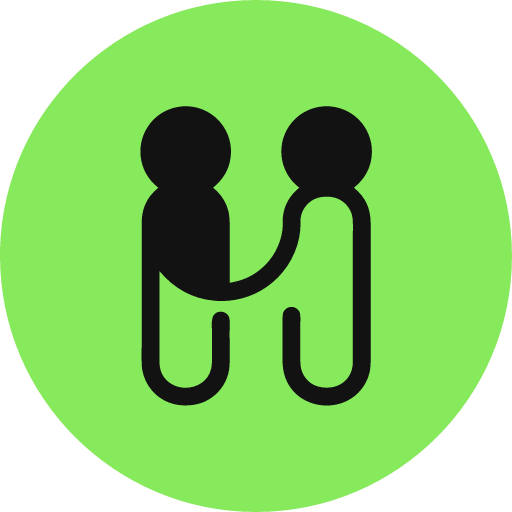
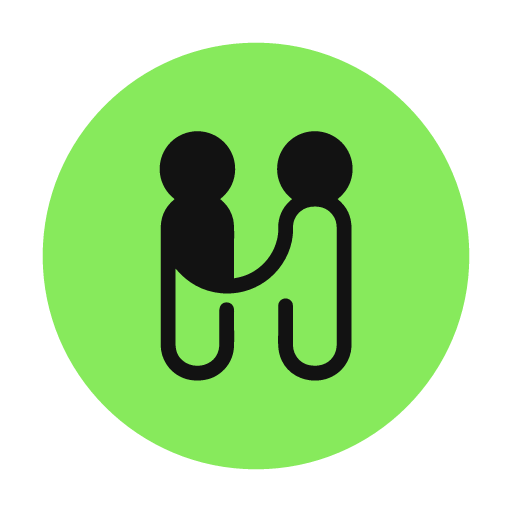
Ring the ehllo badge so it holds an edge on a green card
The mark is a green circle and ehllo's default card colour is also green, so on a
default card the circle vanished into the background and left the two figures
floating with no edge - it stopped reading as a badge at all.

A plain white plate was the obvious fix and the wrong one: it solves the green card
by removing the brand green from every other card, and on coral or indigo it reads
like a generic app icon. The ring keeps the green and gives it a border that
separates it from any colour behind it. One asset for every card, rather than a mark
that changes depending on the colour someone picked.

Both wallets rasterise from the same lib/ehllo-mark-svg.ts, so they cannot drift:
Apple renders logo/icon at 29, 50, 58 and 100 through sharp, and
public/ehllo-mark-round.png is that same markup pre-rendered for Google, which
fetches logos over the network rather than taking bytes.

It costs a little mark size at the same footprint, since the ring eats the edge. At
29x29 - Apple's smallest asset, the one on the lock screen - the ring is about two
pixels, which is why it is 6 units on a 72 viewBox rather than thinner.

Activity log: the badge change is recorded, and the pass spec link is now attached to
the three wallet entries rather than only the first.

Verified: web tsc 0, web lint 0, mobile tsc 0, mobile lint 0, 378/378 tests, secret
check clean across 945 files. Server-side only - passes are built on the server, so
no OTA is involved.

diff --git a/lib/ehllo-mark-svg.ts b/lib/ehllo-mark-svg.ts
@@ -1,15 +1,19 @@
 /**
- * The ehllo mark as inline SVG.
+ * The ehllo mark as inline SVG: the green badge inside a white ring.
  *
- * Inlined for the same reason lib/ehllo-logo-base64.ts exists: files under public/
- * are served by the CDN and are NOT on the serverless filesystem, so
+ * The ring exists because the mark is a green circle and the default card colour is
+ * also green - on a default card the circle vanished into the background and left
+ * the two figures floating with no edge. A white plate would have fixed that by
+ * removing the brand green entirely; the ring keeps the green and gives it a border
+ * that separates it from any colour behind it.
+ *
+ * Inlined for the same reason lib/ehllo-logo-base64.ts is: files under public/ are
+ * CDN-served and absent from the serverless filesystem, so
  * readFile(join(process.cwd(), "public", ...)) always fails in production and
- * silently falls through to whatever the fallback is. That is how the wallet pass
- * ended up shipping the square raster mark even after being pointed at the SVG -
- * the read failed, the fallback ran, and nothing said so.
+ * silently falls through to whatever the fallback is. That is how the pass shipped
+ * the square raster mark once already.
  *
- * The SVG is the only source that still carries the circle: the mark is drawn as
- * `<rect width="60" height="60" rx="30">`, and on a 60x60 box rx=30 is a circle.
- * Rasterising this keeps the round badge and the transparent corners.
+ * public/ehllo-mark-round.png is this same markup pre-rendered, for Google Wallet -
+ * which fetches logos over the network rather than taking bytes.
  */
-export const EHLLO_MARK_SVG = "<svg width=\"60\" height=\"60\" viewBox=\"0 0 60 60\" fill=\"none\" xmlns=\"http://www.w3.org/2000/svg\">\n<rect width=\"60\" height=\"60\" rx=\"30\" fill=\"#87EA5C\"/>\n<path d=\"M21.2464 12.4745C21.5069 12.4387 22.0865 12.4547 22.3494 12.482C23.7392 12.6335 25.0124 13.3297 25.8898 14.418C26.7906 15.5316 27.2033 16.9618 27.0345 18.384C26.8661 19.8753 26.1235 21.0684 24.9666 21.9949C25.1427 22.1389 25.2928 22.2692 25.4547 22.43C26.1055 23.0763 26.5636 23.8909 26.7778 24.7827C26.9883 25.6622 26.9171 27.4581 26.9163 28.4234L26.9165 33.1396C28.3581 32.8852 29.4341 32.4671 30.5889 31.5087C31.9616 30.3692 32.8778 28.6966 33.0993 26.9252C33.1579 26.4571 33.0887 25.9271 33.1433 25.4477C33.3103 23.9847 33.9558 22.9127 35.0702 21.9956C34.7512 21.7524 34.4602 21.4749 34.2019 21.168C33.2896 20.0803 32.8529 18.6717 32.9898 17.2588C33.1194 15.8497 33.8086 14.5513 34.9027 13.6541C36.0016 12.7518 37.4171 12.3285 38.8311 12.4791C40.2271 12.6244 41.5087 13.3174 42.3949 14.4061C43.2851 15.4995 43.7036 16.9023 43.5573 18.3047C43.3986 19.8412 42.6675 21.0383 41.4805 21.9953C42.8654 23.1509 43.4347 24.4148 43.4396 26.2128L43.4383 37.9149L43.4399 41.1086C43.4402 41.8011 43.4723 42.8056 43.344 43.4601C43.1537 44.4413 42.6735 45.3429 41.9658 46.0484C39.5421 48.4625 35.1236 47.8468 33.6271 44.7171C32.9649 43.3327 33.1182 42.0499 33.1194 40.5654L33.1188 37.172C33.1197 36.8085 33.1543 36.5241 33.4368 36.2574C33.6471 36.0574 33.93 35.9521 34.2201 35.966C34.6286 35.9879 35.0547 36.3087 35.1506 36.6959C35.2389 37.0543 35.1952 37.6415 35.1943 38.033L35.1949 40.9019C35.194 41.5271 35.1521 42.6378 35.2884 43.2052C35.408 43.7008 35.6556 44.1563 36.0065 44.5262C36.6004 45.1495 37.3009 45.3881 38.1443 45.4248C39.9549 45.5037 41.3194 44.285 41.3494 42.4463L41.35 30.8314L41.3503 27.4699C41.3503 26.9342 41.3786 26.0249 41.3115 25.5294C41.242 25.0159 41.0298 24.532 40.6993 24.1329C40.215 23.5293 39.5075 23.1469 38.7373 23.0724C37.8034 22.9881 36.9722 23.1205 36.2377 23.7361C35.6229 24.251 35.2502 24.9985 35.2089 25.7994C35.1849 26.2089 35.2244 26.6107 35.181 27.035C34.9367 29.4115 33.7288 31.601 31.9097 33.1238C30.0219 34.7027 27.5831 35.4647 25.1323 35.2417C22.4984 35.0083 20.3626 33.7762 18.6855 31.7679L18.6846 42.2493C18.6917 43.1937 18.8737 43.9333 19.5657 44.5951C21.1865 46.1452 24.2262 45.5022 24.748 43.2052C24.8886 42.5862 24.8402 41.8433 24.8396 41.2142L24.8342 38.652C24.8319 38.076 24.7223 37.2066 25.1699 36.7842C25.5738 36.403 26.2691 36.4373 26.6436 36.8549C26.9544 37.1747 26.9335 37.6658 26.9173 38.1037C26.86 39.6513 27.0013 41.3605 26.8992 42.8933C26.8075 44.2058 26.1948 45.4272 25.1975 46.2854C24.0498 47.2823 22.6947 47.6055 21.2028 47.489C19.8717 47.3858 18.6376 46.7528 17.7771 45.7319C17.1984 45.0433 16.8152 44.2121 16.6675 43.3248C16.558 42.662 16.5995 41.1854 16.5996 40.4507L16.5997 35.4204L16.5997 28.9237C16.5996 28.1569 16.6206 27.3313 16.5977 26.569C16.5398 24.645 17.0407 23.2522 18.5561 21.9946C18.5261 21.9726 18.4966 21.9501 18.4675 21.927C17.368 21.0583 16.6567 19.7901 16.4888 18.399C16.3165 16.9769 16.7253 15.5454 17.6226 14.4288C18.5339 13.2928 19.8064 12.6302 21.2464 12.4745Z\" fill=\"#121212\"/>\n</svg>";
+export const EHLLO_MARK_SVG = "<svg width=\"72\" height=\"72\" viewBox=\"0 0 72 72\" fill=\"none\" xmlns=\"http://www.w3.org/2000/svg\"><rect width=\"72\" height=\"72\" rx=\"36\" fill=\"#FFFFFF\"/><g transform=\"translate(6,6)\"><rect width=\"60\" height=\"60\" rx=\"30\" fill=\"#87EA5C\"/>\n<path d=\"M21.2464 12.4745C21.5069 12.4387 22.0865 12.4547 22.3494 12.482C23.7392 12.6335 25.0124 13.3297 25.8898 14.418C26.7906 15.5316 27.2033 16.9618 27.0345 18.384C26.8661 19.8753 26.1235 21.0684 24.9666 21.9949C25.1427 22.1389 25.2928 22.2692 25.4547 22.43C26.1055 23.0763 26.5636 23.8909 26.7778 24.7827C26.9883 25.6622 26.9171 27.4581 26.9163 28.4234L26.9165 33.1396C28.3581 32.8852 29.4341 32.4671 30.5889 31.5087C31.9616 30.3692 32.8778 28.6966 33.0993 26.9252C33.1579 26.4571 33.0887 25.9271 33.1433 25.4477C33.3103 23.9847 33.9558 22.9127 35.0702 21.9956C34.7512 21.7524 34.4602 21.4749 34.2019 21.168C33.2896 20.0803 32.8529 18.6717 32.9898 17.2588C33.1194 15.8497 33.8086 14.5513 34.9027 13.6541C36.0016 12.7518 37.4171 12.3285 38.8311 12.4791C40.2271 12.6244 41.5087 13.3174 42.3949 14.4061C43.2851 15.4995 43.7036 16.9023 43.5573 18.3047C43.3986 19.8412 42.6675 21.0383 41.4805 21.9953C42.8654 23.1509 43.4347 24.4148 43.4396 26.2128L43.4383 37.9149L43.4399 41.1086C43.4402 41.8011 43.4723 42.8056 43.344 43.4601C43.1537 44.4413 42.6735 45.3429 41.9658 46.0484C39.5421 48.4625 35.1236 47.8468 33.6271 44.7171C32.9649 43.3327 33.1182 42.0499 33.1194 40.5654L33.1188 37.172C33.1197 36.8085 33.1543 36.5241 33.4368 36.2574C33.6471 36.0574 33.93 35.9521 34.2201 35.966C34.6286 35.9879 35.0547 36.3087 35.1506 36.6959C35.2389 37.0543 35.1952 37.6415 35.1943 38.033L35.1949 40.9019C35.194 41.5271 35.1521 42.6378 35.2884 43.2052C35.408 43.7008 35.6556 44.1563 36.0065 44.5262C36.6004 45.1495 37.3009 45.3881 38.1443 45.4248C39.9549 45.5037 41.3194 44.285 41.3494 42.4463L41.35 30.8314L41.3503 27.4699C41.3503 26.9342 41.3786 26.0249 41.3115 25.5294C41.242 25.0159 41.0298 24.532 40.6993 24.1329C40.215 23.5293 39.5075 23.1469 38.7373 23.0724C37.8034 22.9881 36.9722 23.1205 36.2377 23.7361C35.6229 24.251 35.2502 24.9985 35.2089 25.7994C35.1849 26.2089 35.2244 26.6107 35.181 27.035C34.9367 29.4115 33.7288 31.601 31.9097 33.1238C30.0219 34.7027 27.5831 35.4647 25.1323 35.2417C22.4984 35.0083 20.3626 33.7762 18.6855 31.7679L18.6846 42.2493C18.6917 43.1937 18.8737 43.9333 19.5657 44.5951C21.1865 46.1452 24.2262 45.5022 24.748 43.2052C24.8886 42.5862 24.8402 41.8433 24.8396 41.2142L24.8342 38.652C24.8319 38.076 24.7223 37.2066 25.1699 36.7842C25.5738 36.403 26.2691 36.4373 26.6436 36.8549C26.9544 37.1747 26.9335 37.6658 26.9173 38.1037C26.86 39.6513 27.0013 41.3605 26.8992 42.8933C26.8075 44.2058 26.1948 45.4272 25.1975 46.2854C24.0498 47.2823 22.6947 47.6055 21.2028 47.489C19.8717 47.3858 18.6376 46.7528 17.7771 45.7319C17.1984 45.0433 16.8152 44.2121 16.6675 43.3248C16.558 42.662 16.5995 41.1854 16.5996 40.4507L16.5997 35.4204L16.5997 28.9237C16.5996 28.1569 16.6206 27.3313 16.5977 26.569C16.5398 24.645 17.0407 23.2522 18.5561 21.9946C18.5261 21.9726 18.4966 21.9501 18.4675 21.927C17.368 21.0583 16.6567 19.7901 16.4888 18.399C16.3165 16.9769 16.7253 15.5454 17.6226 14.4288C18.5339 13.2928 19.8064 12.6302 21.2464 12.4745Z\" fill=\"#121212\"/></g></svg>";

diff --git a/lib/content/activity-log.ts b/lib/content/activity-log.ts
@@ -59,6 +59,20 @@ export const ACTIVITY_TZ_OFFSET = "+01:00";
 export const ACTIVITY_ENTRIES: ActivityEntry[] = [
   {
     date: "2026-08-18",
+    time: "23:05",
+    title: "The ehllo badge holds its edge on every card colour",
+    impact: "improvement",
+    detail:
+      "The mark is a green circle, and ehllo's default card colour is also green - so on a default card the circle disappeared into the background and left the two figures floating with no edge. It now sits inside a thin white ring, which separates it from any colour behind it while keeping the brand green. A plain white badge would have fixed the green card by removing the green from every other one.",
+    testing:
+      "Add your card to either wallet on the default green colour, then on a dark one, and compare the logo.",
+    link: {
+      href: "https://claude.ai/code/artifact/5da4bca6-e5b6-4002-9b8e-b65f7843593b",
+      label: "See the pass spec and design",
+    },
+  },
+  {
+    date: "2026-08-18",
     time: "22:45",
     title: "Your wallet pass stops writing an About you never wrote",
     impact: "fix",
@@ -66,6 +80,10 @@ export const ACTIVITY_ENTRIES: ActivityEntry[] = [
       "If you had not filled in the About field, both wallet passes printed a line of our own text under your name as though you had written it. Now an empty About simply does not appear. The pass shows what is in your card editor and nothing else - the same is already true of your job title, company, photo and colour.",
     testing:
       "Add the card to either wallet with the About field empty, and check the back of the pass.",
+    link: {
+      href: "https://claude.ai/code/artifact/5da4bca6-e5b6-4002-9b8e-b65f7843593b",
+      label: "See the pass spec and design",
+    },
   },
   {
     date: "2026-08-18",
